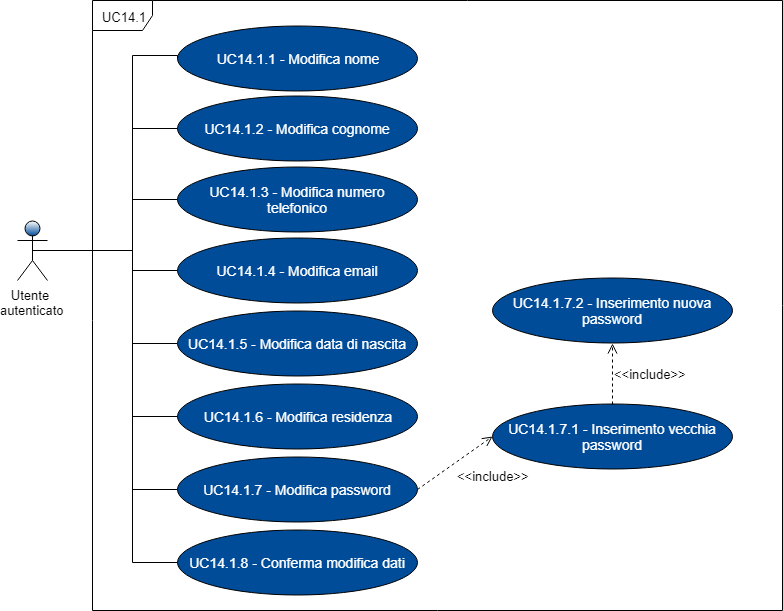
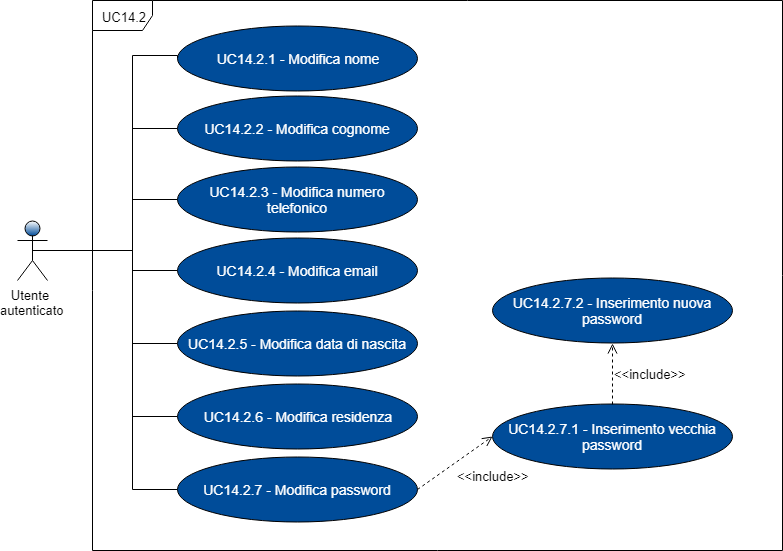
fix profilo e veicolo

diff --git a/RR/Esterni/Analisi_dei_requisiti/res/sections/UC/UC14-15-GestioneProfilo.tex b/RR/Esterni/Analisi_dei_requisiti/res/sections/UC/UC14-15-GestioneProfilo.tex
@@ -9,8 +9,9 @@
 	\item \textbf{Descrizione}: agli utenti autenticati è resa disponibile una maschera che presenta il proprio profilo, dalla quale l'utente può scegliere di modificarlo o eliminarlo;
 	\item \textbf{Scenario principale}: l'utente visualizza il profilo e ha la possibilità di: 
 	\begin{itemize}
-		\item modifica dati account [UC14.1];
-		\item eliminazione account [UC14.2].
+		\item inserire la patente [UC14.1];
+		\item modifica dati account [UC14.2];
+		\item eliminazione account [UC14.3].
 	\end{itemize}
 	\item \textbf{Precondizione}: l'utente è in possesso di un account all'interno del sistema. Deve quindi essersi registrato e non aver eliminato l'account;
 	\item \textbf{Postcondizione}: l'utente ha effettuato l'operazione di modifica dati oppure l'eliminazione dell'account e il processo è stato confermato dal sistema.
@@ -25,22 +26,75 @@
 	\includegraphics[width=10cm]{res/images/UC14Profilo.png}
 	\centering
 	\caption{UC14 - Gestione Profilo}
-\end{figure} 
-\subsubsection{UC14.1 - Modifica dati account}
+\end{figure}
+\subsubsection{UC14.1 - Inserimento patente}
+\begin{figure}[h]
+	\includegraphics[width=10cm]{res/images/UC14-Patente.png}
+	\centering
+	\caption{UC14.1 - Inserimento patente}
+\end{figure}
+\begin{itemize}
+	\item \textbf{Attori Primari}: utente autenticato;
+	\item \textbf{Descrizione}: l'utente può aggiungere la propria patente al profilo;
+	\item \textbf{Scenario principale}: l'utente aggiunge la patente compilando gli appositi campi obbligatori, ovvero:
+	\begin{itemize}
+		\item inserimento immagine patente [UC14.1.1];
+		\item inserimento numero patente [UC14.1.2];
+		\item inserimento data rilascio [UC14.1.3];
+		\item inserimento data scadenza [UC14.1.4].
+	\end{itemize}
+	e successivamente salverà la patente confermando i campi appena inseriti;	 
+	\item \textbf{Precondizione}: l'utente ha inserito correttamente tutti i campi necessari;
+	\item \textbf{Postcondizione}: la patente viene aggiunta e visualizzata nella pagina \textit{Gestione Profilo}.
+\end{itemize}
+\newpage
+\subsubsection{UC14.1.1 - Inserimento immagine patente}
+\begin{itemize}
+	\item \textbf{Attori Primari}: utente autenticato;
+	\item \textbf{Descrizione}: al fine di portare a termine il processo di inserimento della patente, l'utente deve inserire l'immagine fronte e retro della propria patente, campo ritenuto obbligatorio; 
+	\item \textbf{Scenario principale}: l'utente preme il pulsante relativo all'inserimento dell'immagine della patente;	
+	\item \textbf{Precondizione}: l'applicazione ha reso disponibile il bottone per l'inserimento dell'immagine della patente;
+	\item \textbf{Postcondizione}: l'utente ha inserito correttamente l'immagine della patente.
+\end{itemize}
+\subsubsection{UC14.1.2 - Inserimento numero patente}
+\begin{itemize}
+	\item \textbf{Attori Primari}: utente autenticato;
+	\item \textbf{Descrizione}: al fine di portare a termine il processo di inserimento della patente, l'utente deve inserire il numero della patente, campo ritenuto obbligatorio; 
+	\item \textbf{Scenario principale}: l'utente compila il campo relativo al numero della patente;	
+	\item \textbf{Precondizione}: l'applicazione ha reso disponibile il campo per l'inserimento del numero della patente;
+	\item \textbf{Postcondizione}: l'utente ha compilato il campo con il numero della patente.
+\end{itemize}
+\subsubsection{UC14.1.3 - Inserimento data rilascio}
+\begin{itemize}
+	\item \textbf{Attori Primari}: utente autenticato;
+	\item \textbf{Descrizione}: al fine di portare a termine il processo di inserimento della patente, l'utente deve inserire la data di rilascio, campo ritenuto obbligatorio; 
+	\item \textbf{Scenario principale}: l'utente compila il campo relativo alla data di rilascio della patente;	
+	\item \textbf{Precondizione}: l'applicazione ha reso disponibile il campo per l'inserimento della data di rilascio della patente;
+	\item \textbf{Postcondizione}: l'utente ha compilato il campo con la data di rilascio della patente.
+\end{itemize}
+\subsubsection{UC14.1.2 - Inserimento numero patente}
+\begin{itemize}
+	\item \textbf{Attori Primari}: utente autenticato;
+	\item \textbf{Descrizione}: al fine di portare a termine il processo di inserimento della patente, l'utente deve inserire la data di scadenza, campo ritenuto obbligatorio; 
+	\item \textbf{Scenario principale}: l'utente compila il campo relativo alla data di scadenza della patente;	
+	\item \textbf{Precondizione}: l'applicazione ha reso disponibile il campo per l'inserimento della data di scadenza della patente;
+	\item \textbf{Postcondizione}: l'utente ha compilato il campo con la data di scadenza della patente.
+\end{itemize}
+\subsubsection{UC14.2 - Modifica dati account}
 \begin{itemize}
 	\item \textbf{Attori Primari}: utente autenticato;
 	\item \textbf{Descrizione}: l'utente ha la possibilità di modificare i propri dati;
 	\item \textbf{Scenario principale}: l'utente può modificare:
 	\begin{itemize}
-		\item nome [UC14.1.1];
-		\item cognome [UC14.1.2];
-		\item numero telefonico [UC14.1.3];
-		\item email [UC14.1.4];
-		\item data di nascita [UC14.1.5];
-		\item residenza [UC14.1.6];
-		\item password [UC14.1.7].
+		\item nome [UC14.2.1];
+		\item cognome [UC14.2.2];
+		\item numero telefonico [UC14.2.3];
+		\item email [UC14.2.4];
+		\item data di nascita [UC14.2.5];
+		\item residenza [UC14.2.6];
+		\item password [UC14.2.7].
 	\end{itemize}
-	e confermare la modifica dei dati [UC14.1.8];
+	e confermare la modifica dei dati;
 	\item \textbf{Scenari alternativi}: l'utente interrompe la modifica dei dati senza confermare il salvataggio di essi. Il sistema non salverà le modifiche parziali apportate dall'utente ma lo riporterà alla schermata di visualizzazione dell'account;	 
 	\item \textbf{Precondizione}: l'utente è in possesso di un account all'interno del sistema. Deve quindi essersi registrato e non aver eliminato l'account;
 	\item \textbf{Postcondizione}: il sistema ha memorizzato le modifiche apportate ai dati da parte dell’utente;
@@ -48,10 +102,10 @@
 \begin{figure}[h]
 	\includegraphics[width=14cm]{res/images/UC14-1Modifica.png}
 	\centering
-	\caption{UC14.1 - Modifica dati account}
+	\caption{UC14.2 - Modifica dati account}
 \end{figure}
 \newpage 
-\subsubsection{UC14.1.1 - Modifica nome}
+\subsubsection{UC14.2.1 - Modifica nome}
 \begin{itemize}
 	\item \textbf{Attori Primari}: utente autenticato;
 	\item \textbf{Descrizione}: l'utente ha la possibilità di modificare il nome inserito in precedenza;
@@ -59,7 +113,7 @@
 	\item \textbf{Postcondizione}: l'utente ha inserito il nuovo nome.
 \end{itemize}
 
-\subsubsection{UC14.1.2 - Modifica cognome}
+\subsubsection{UC14.2.2 - Modifica cognome}
 \begin{itemize}
 	\item \textbf{Attori Primari}: utente autenticato;
 	\item \textbf{Descrizione}: l'utente ha la possibilità di modificare il cognome inserito in precedenza;
@@ -67,7 +121,7 @@
 	\item \textbf{Postcondizione}: l'utente ha inserito il nuovo cognome.
 \end{itemize}
 
-\subsubsection{UC14.1.3 - Modifica numero telefonico}
+\subsubsection{UC14.2.3 - Modifica numero telefonico}
 \begin{itemize}
 	\item \textbf{Attori Primari}: utente autenticato;
 	\item \textbf{Descrizione}: l'utente ha la possibilità di modificare il numero telefonico inserito in precedenza;
@@ -75,7 +129,7 @@
 	\item \textbf{Postcondizione}: l'utente ha inserito il nuovo numero telefonico.
 \end{itemize}
 
-\subsubsection{UC14.1.4 - Modifica email}
+\subsubsection{UC14.2.4 - Modifica email}
 \begin{itemize}
 	\item \textbf{Attori Primari}: utente autenticato;
 	\item \textbf{Descrizione}: l'utente ha la possibilità di modificare l'email inserita in precedenza;
@@ -83,7 +137,7 @@
 	\item \textbf{Postcondizione}: l'utente ha inserito la nuova email.
 \end{itemize}
 
-\subsubsection{UC14.1.5 - Modifica data di nascita}
+\subsubsection{UC14.2.5 - Modifica data di nascita}
 \begin{itemize}
 	\item \textbf{Attori Primari}: utente autenticato;
 	\item \textbf{Descrizione}: l'utente ha la possibilità di modificare la data di nascita inserita in precedenza;
@@ -91,7 +145,7 @@
 	\item \textbf{Postcondizione}: l'utente ha inserito la nuova data di nascita.
 \end{itemize}
 
-\subsubsection{UC14.1.6 - Modifica residenza}
+\subsubsection{UC14.2.6 - Modifica residenza}
 \begin{itemize}
 	\item \textbf{Attori Primari}: utente autenticato;
 	\item \textbf{Descrizione}: l'utente ha la possibilità di modificare la residenza inserita in precedenza;
@@ -99,23 +153,23 @@
 	\item \textbf{Postcondizione}: l'utente ha inserito la nuova residenza.
 \end{itemize}
 
-\subsubsection{UC14.1.7 - Modifica password}
+\subsubsection{UC14.2.7 - Modifica password}
 \begin{itemize}
 	\item \textbf{Attori Primari}: utente autenticato;
 	\item \textbf{Descrizione}: l'utente ha la possibilità di modificare la password inserita in precedenza inserendo prima la vecchia password e poi quella nuova;
 	\item \textbf{Scenario principale}: il sistema fornisce per prima cosa all'utente la possibilità di:
 		\begin{itemize}
-			\item inserimento vecchia password [UC14.1.7.1].
+			\item inserimento vecchia password [UC14.2.7.1].
 		\end{itemize}
 	e poi di:
 		\begin{itemize}
-			\item inserimento nuova password [UC14.1.7.2].
+			\item inserimento nuova password [UC14.2.7.2].
 		\end{itemize}
 	\item \textbf{Precondizione}: il sistema fornisce una schermata nella quale è possibile inserire la nuova password;
 	\item \textbf{Postcondizione}: l'utente ha inserito la nuova password.
 \end{itemize}
 
-\subsubsection{UC14.1.7.1 - Inserimento vecchia password}
+\subsubsection{UC14.2.7.1 - Inserimento vecchia password}
 \begin{itemize}
 	\item \textbf{Attori Primari}: utente autenticato;
 	\item \textbf{Descrizione}: l'utente deve inserire la password attuale per poterla aggiornare;
@@ -123,7 +177,7 @@
 	\item \textbf{Postcondizione}: l'utente ha inserito la vecchia password.
 \end{itemize}
 
-\subsubsection{UC14.1.7.2 - Inserimento nuova password}
+\subsubsection{UC14.2.7.2 - Inserimento nuova password}
 \begin{itemize}
 	\item \textbf{Attori Primari}: utente autenticato;
 	\item \textbf{Descrizione}: l'utente deve inserire la nuova password per effettuare l'aggiornamento;
@@ -131,16 +185,16 @@
 	\item \textbf{Postcondizione}: l'utente ha inserito la nuova password.
 \end{itemize}
 
-\subsubsection{UC14.1.8 - Conferma modifica dati}
-\begin{itemize}
-	\item \textbf{Attori Primari}: utente autenticato;
-	\item \textbf{Descrizione}: l'utente deve 
-	confermare la modifica apportata;
-	\item \textbf{Precondizione}: l'utente ha inserito tutti i dati richiesti e desiderati. Si trova dunque davanti ad una schermata con la possibilità di confermare la modifica effettuata;
-	\item \textbf{Postcondizione}: l'utente ha confermato di voler rendere effettivo il cambiamento del proprio account.
-\end{itemize}
+%\subsubsection{UC14.2.8 - Conferma modifica dati}
+%\begin{itemize}
+%	\item \textbf{Attori Primari}: utente autenticato;
+%	\item \textbf{Descrizione}: l'utente deve 
+%	confermare la modifica apportata;
+%	\item \textbf{Precondizione}: l'utente ha inserito tutti i dati richiesti e desiderati. Si trova dunque davanti ad una schermata con la possibilità di confermare la modifica effettuata;
+%	\item \textbf{Postcondizione}: l'utente ha confermato di voler rendere effettivo il cambiamento del proprio account.
+%\end{itemize}
 
-\subsubsection{UC14.2 - Eliminazione account}
+\subsubsection{UC14.3 - Eliminazione account}
 \begin{itemize}
 	\item \textbf{Attori Primari}: utente autenticato;
 	\item \textbf{Descrizione}: all'utente viene fornita la possibilità di eliminare il proprio account e di conseguenza i propri dati all'interno del sistema;
@@ -151,7 +205,7 @@
 \subsubsection{UC15 - Visualizzazione errore password non corrispondente}
 \begin{itemize}
 	\item \textbf{Attori Primari}: utente autenticato;
-	\item \textbf{Descrizione}: l'utente visualizza un messaggio d'errore in quanto la password digitata in [UC14.1.7.1] non corrisponde alla vecchia password;
+	\item \textbf{Descrizione}: l'utente visualizza un messaggio d'errore in quanto la password digitata in [UC14.2.7.1] non corrisponde alla vecchia password;
 	\item \textbf{Scenario principale}: l'utente autenticato cerca di cambiare la password del proprio account;
 	\item \textbf{Precondizione}: l'utente autenticato ha inserito una password non corrispondente a quella attuale;
 	\item \textbf{Postcondizione}: l'applicazione fa visualizzare un messaggio d'errore.

diff --git a/RR/Esterni/Analisi_dei_requisiti/res/sections/UC/UC10-Gestione-veicoli.tex b/RR/Esterni/Analisi_dei_requisiti/res/sections/UC/UC10-Gestione-veicoli.tex
@@ -18,11 +18,12 @@
  \begin{itemize}
  	\item \textbf{Attori Primari}: utente autenticato;
  	\item \textbf{Descrizione}: l'utente può aggiungere un mezzo di trasporto al proprio parco macchine;
- 	\item \textbf{Scenario principale}: l'utente aggiunge un veicolo compilando gli appositi campi, ovvero:
+ 	\item \textbf{Scenario principale}: l'utente aggiunge un veicolo compilando gli appositi campi obbligatori, ovvero:
  	\begin{itemize}
- 		\item inserimento marca veicolo [UC10.1.1];
- 		\item inserimento modello veicolo [UC10.1.2];
- 		\item inserimento anno d'immatricolazione veicolo [UC10.1.3].
+ 		\item inserimento immagine veicolo [UC10.1.1];
+ 		\item inserimento marca veicolo [UC10.1.2];
+ 		\item inserimento modello veicolo [UC10.1.3];
+ 		\item inserimento anno d'immatricolazione veicolo [UC10.1.4].
  	\end{itemize}
  	e successivamente salverà il nuovo veicolo confermando i campi appena inseriti;
  	\item \textbf{Precondizione}: l'utente ha inserito correttamente tutti i campi necessari;
@@ -33,28 +34,35 @@
 	\centering
 	\caption{UC10.1 - Aggiungi veicolo}
 \end{figure}
-\subsubsection{UC10.1.1 - Inserimento marca veicolo}
+\subsubsection{UC10.1.1 - Inserimento immagine veicolo}
 \begin{itemize}
 	\item \textbf{Attori Primari}: utente autenticato;
-	\item \textbf{Descrizione}: al fine di portare a termine il processo di inserimento di un nuovo veicolo l'utente deve inserirne la marca, campo ritenuto obbligatorio;
+	\item \textbf{Descrizione}: al fine di portare a termine il processo di inserimento di un nuovo veicolo l'utente deve inserire un'immagine del proprio mezzo, campo ritenuto obbligatorio; 
+	\item \textbf{Scenario principale}: l'utente preme il pulsante relativo all'inserimento dell'immagine del veicolo;	
+	\item \textbf{Precondizione}: l'applicazione ha reso disponibile il bottone per l'inserimento dell'immagine del veicolo;
+	\item \textbf{Postcondizione}: l'utente ha inserito correttamente l'immagine del veicolo.
+\end{itemize}
+\subsubsection{UC10.1.2 - Inserimento marca veicolo}
+\begin{itemize}
+	\item \textbf{Attori Primari}: utente autenticato;
+	\item \textbf{Descrizione}: al fine di portare a termine il processo di inserimento di un nuovo veicolo l'utente deve inserire la marca, campo ritenuto obbligatorio;
 	\item \textbf{Scenario principale}: l'utente compila il campo relativo alla marca del veicolo;	
 	\item \textbf{Precondizione}: l'applicazione ha reso disponibile il campo per l'inserimento della marca del veicolo;
 	\item \textbf{Postcondizione}: l'utente ha compilato il campo con la marca.	
 \end{itemize}
 
-\subsubsection{UC10.1.2 - Inserimento modello veicolo}
+\subsubsection{UC10.1.3 - Inserimento modello veicolo}
 \begin{itemize}
 	\item \textbf{Attori Primari}: utente autenticato;
-	\item \textbf{Descrizione}: al fine di portare a termine il processo di inserimento di un nuovo veicolo l'utente deve inserirne il modello, campo ritenuto obbligatorio;
+	\item \textbf{Descrizione}: al fine di portare a termine il processo di inserimento di un nuovo veicolo l'utente deve inserire il modello, campo ritenuto obbligatorio;
 	\item \textbf{Scenario principale}: l'utente compila il campo relativo alla marca del veicolo;	
 	\item \textbf{Precondizione}: l'applicazione ha reso disponibile il campo per l'inserimento il modello del veicolo;
 	\item \textbf{Postcondizione}: l'utente ha compilato il campo con il modello.	
 \end{itemize}
-
-\subsubsection{UC10.1.3 - Inserimento anno d'immatricolazione veicolo}
+\subsubsection{UC10.1.4 - Inserimento anno d'immatricolazione veicolo}
 \begin{itemize}
 	\item \textbf{Attori Primari}: utente autenticato;
-	\item \textbf{Descrizione}: al fine di portare a termine il processo di inserimento di un nuovo veicolo l'utente deve inserirne l'anno di immatricolazione, campo ritenuto obbligatorio;
+	\item \textbf{Descrizione}: al fine di portare a termine il processo di inserimento di un nuovo veicolo l'utente deve inserire l'anno di immatricolazione, campo ritenuto obbligatorio;
 	\item \textbf{Scenario principale}: l'utente compila il campo relativo all'anno d'immatricolazione del veicolo;	
 	\item \textbf{Precondizione}: l'applicazione ha reso disponibile il campo per l'inserimento dell'anno d'immatricolazione del veicolo;
 	\item \textbf{Postcondizione}: l'utente ha compilato il campo con l'anno d'immatricolazione.	
@@ -78,7 +86,7 @@
 		\item anno di immatricolazione;
 		\item rating.
 	\end{itemize}
-	E ha la possibilità di rimuoverlo [UC10.2.1];
+	E ha la possibilità di rimuovere il veicolo [UC10.2.1];
 	\item \textbf{Scenario principale}: l'utente visualizza i dati di dettaglio del veicolo;
 	\item \textbf{Precondizione}: l'utente autenticato visualizza i dettagli del veicolo;
 	\item \textbf{Postcondizione}: l'utente autenticato ha visualizzato i dettagli del veicolo.
@@ -88,6 +96,7 @@
 	\centering
 	\caption{UC10.2 - Visualizza dettagli veicolo}
 \end{figure}
+
 \subsubsection{UC10.2.1 - Rimuovi veicolo}
 \begin{itemize}
 	\item \textbf{Attori Primari}: utente autenticato;
